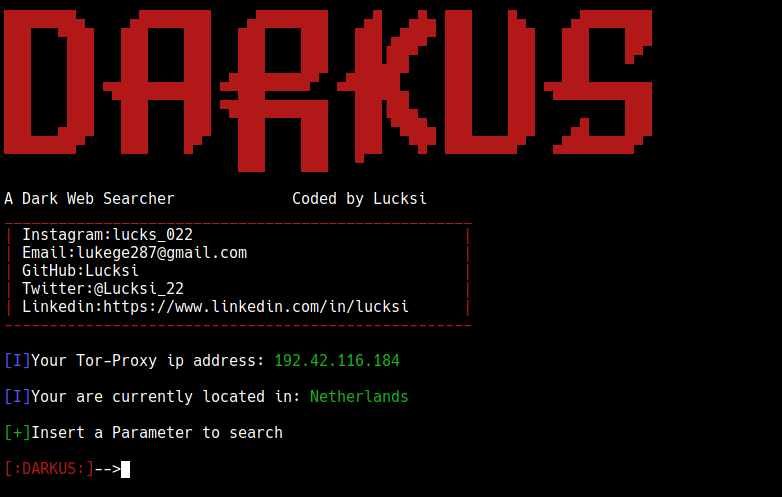
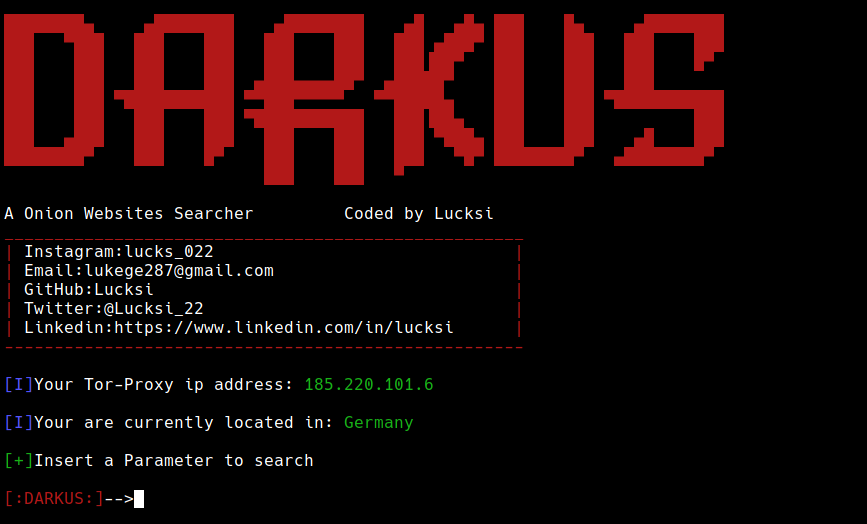
Add files via upload

diff --git a/Main.py b/Main.py
@@ -141,7 +141,7 @@ class Engine:
             print(Colors.RED + line.replace("\n", ""))
         f.close()
         sleep(0.3)
-        print(Colors.WHITE + "\nA Dark Web Searcher\t\tCoded by Lucksi")
+        print(Colors.WHITE + "\nA Onion Websites Searcher\t  Coded by Lucksi")
         print(Colors.RED + "____________________________________________________")
         print(Colors.RED + "|" + Colors.WHITE + " Instagram:lucks_022" +
               Colors.RED + "                              |")
